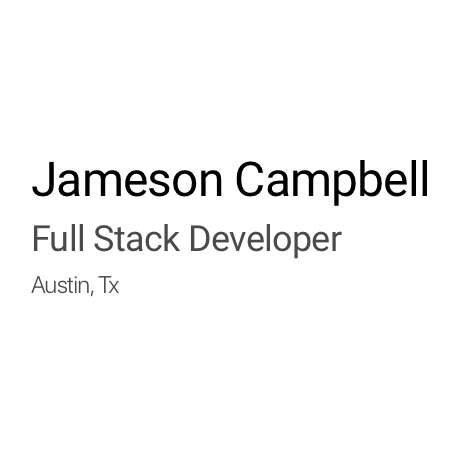
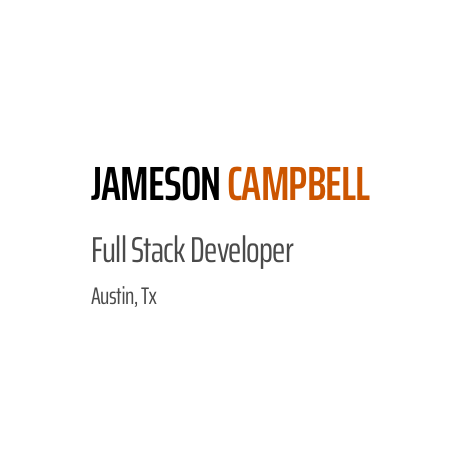
updated home screen name, title, and location branding image

Changed region(s): [[0.0609, 0.3348, 0.9435, 0.4565], [0.0609, 0.487, 0.7609, 0.6696]]

diff --git a/about.html b/about.html
@@ -35,7 +35,7 @@
         <div class="subheading mb-5">Austin, TX 78741 · (830) 928-5310 ·
           <a href="mailto:jcampbell@flexterapp.com">jcampbell@flexterapp.com</a>
         </div>
-        <p class="lead mb-5">6+ years experience in Mobile, IoT, & SaaS products. Learning full stack web development part-time at UT while managing developers in Bulgaria building mobile apps for social media influencers.</p>
+        <p class="lead mb-5">6+ years experience in Mobile, IoT & SaaS products. Learning full stack web development at UT and building mobile apps for social media influencers.</p>
         <div class="social-icons">
             <a href="index.html">
                 <i class="fas fa-home"></i>
